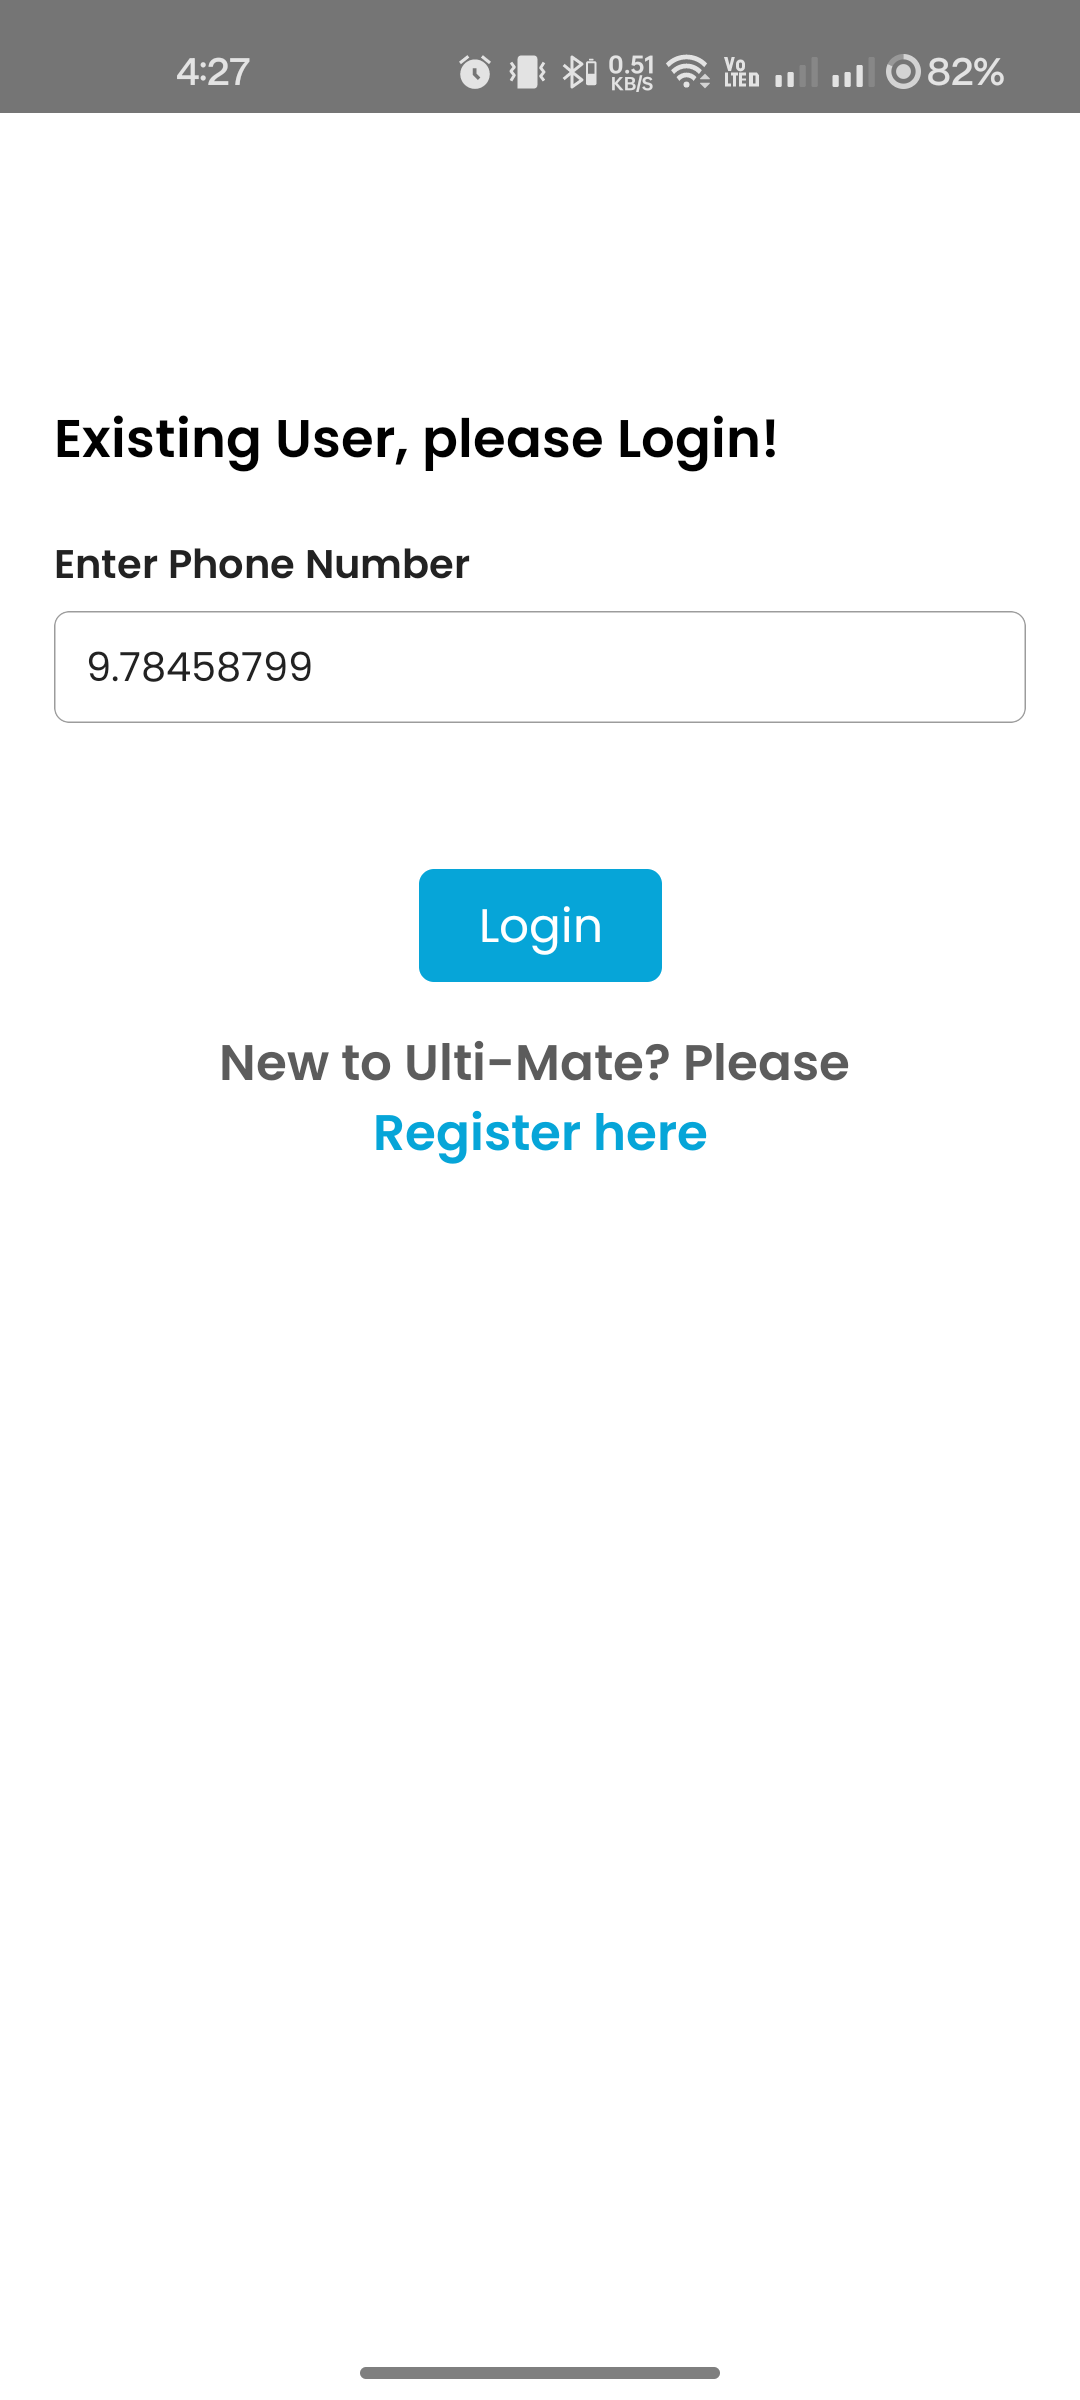
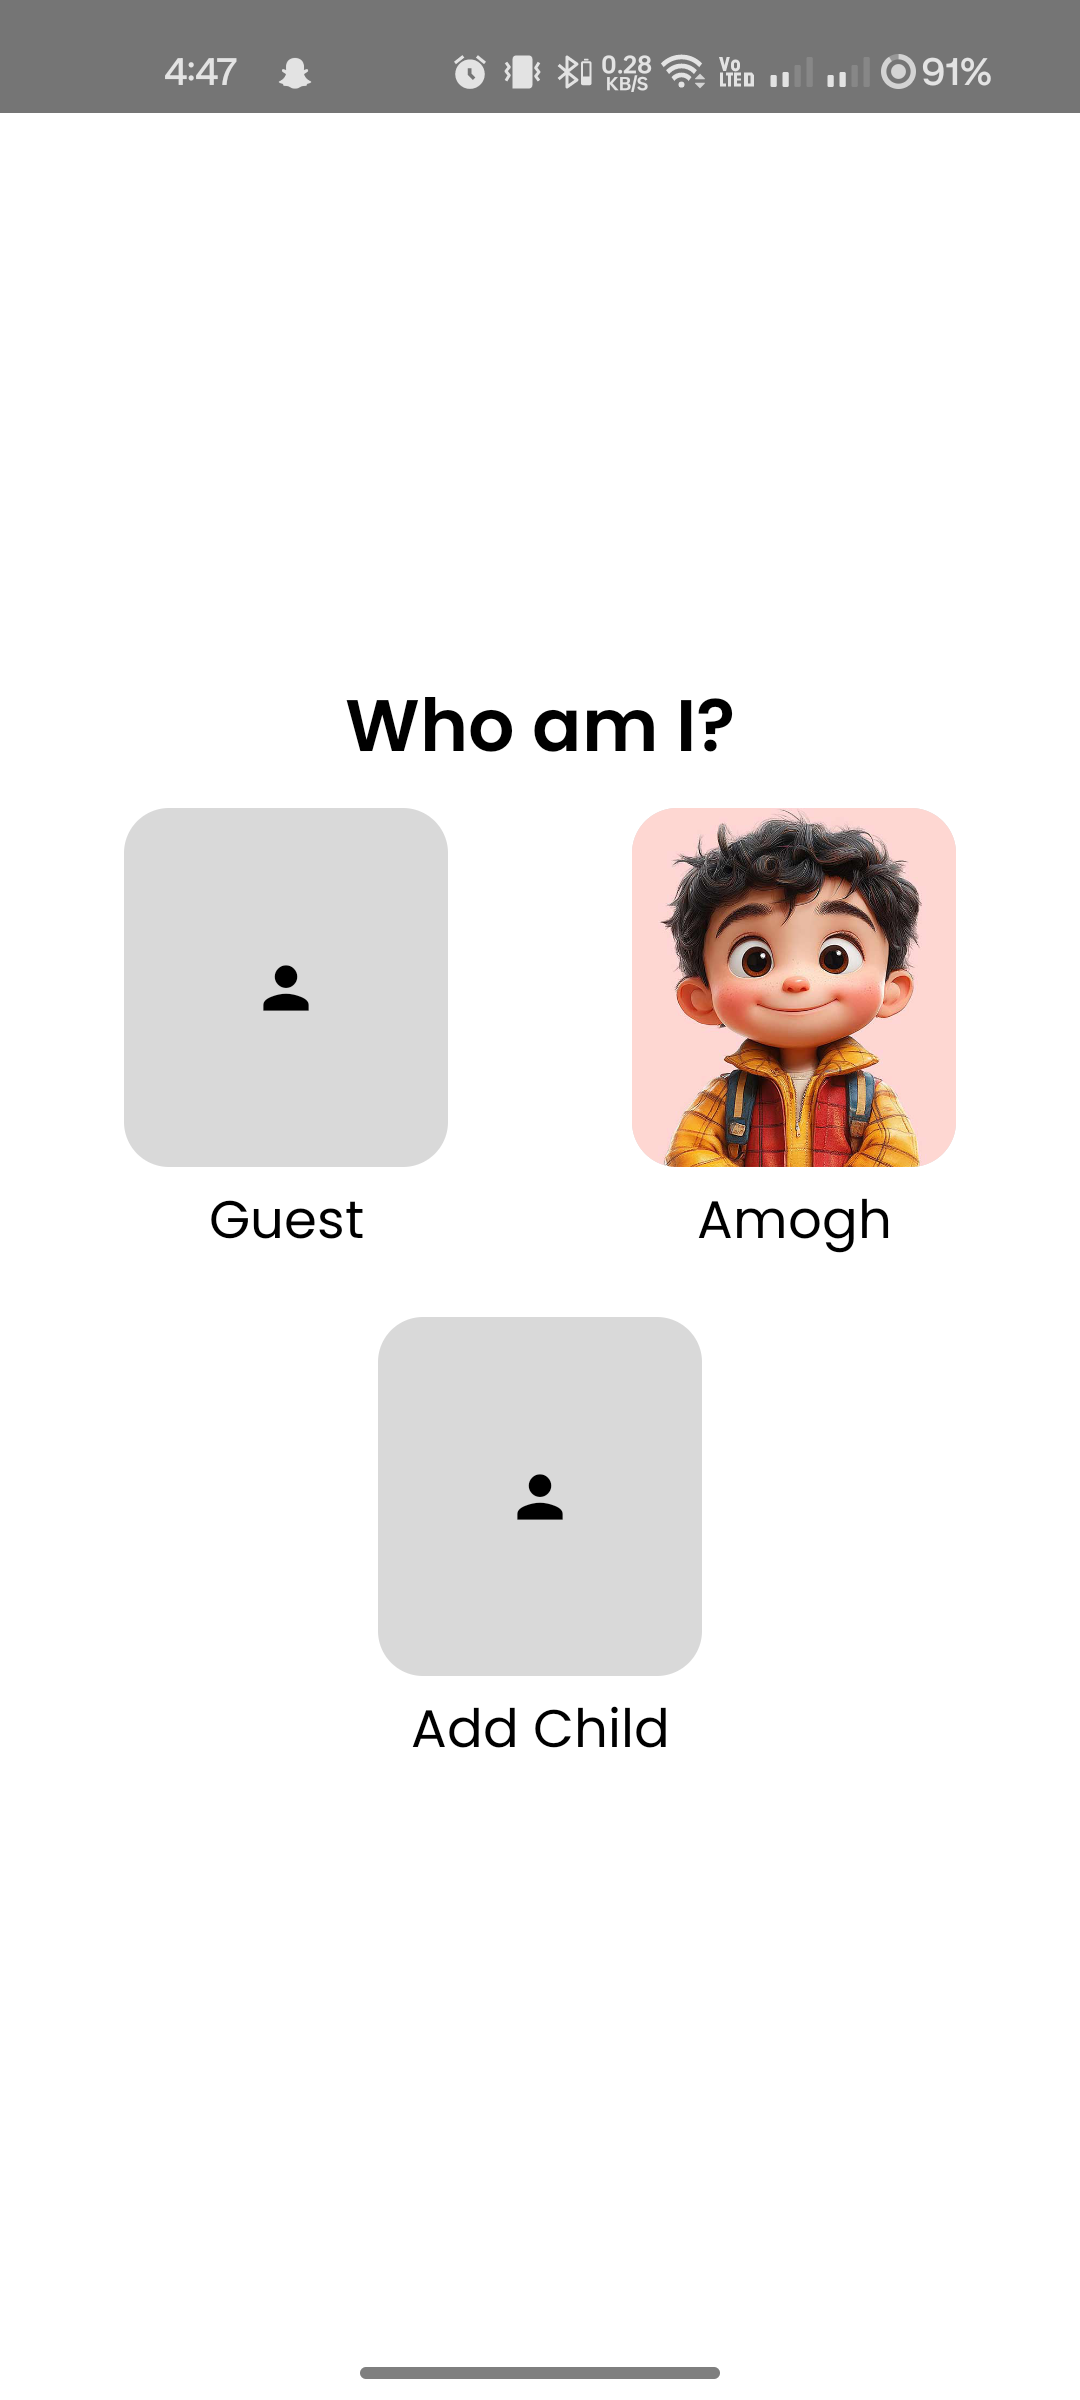
new ultimate repo commit

diff --git a/src/test/java/tests/smokeTests/LoginByParent.java b/src/test/java/tests/smokeTests/LoginByParent.java
@@ -218,16 +218,28 @@ public class LoginByParent extends BaseClass {
 //        }
 //    }
 
-    @AfterMethod
+//    @AfterMethod
+//    public void captureScreenshotOnFailure(ITestResult result) {
+//        if (ITestResult.FAILURE == result.getStatus()) {
+//            String methodName = result.getMethod().getMethodName();
+//            if (driver != null) {
+//                AppiumUtils.captureScreenshot(driver, "Failure_" + methodName);
+//            } else {
+//                log.error("Driver is null. Unable to capture screenshot for: " + methodName);
+//            }
+//        }
+//    }
+
+    @AfterMethod(alwaysRun = true)
     public void captureScreenshotOnFailure(ITestResult result) {
-        if (ITestResult.FAILURE == result.getStatus()) {
-            String methodName = result.getMethod().getMethodName();
-            if (driver != null) {
-                AppiumUtils.captureScreenshot(driver, "Failure_" + methodName);
-            } else {
-                log.error("Driver is null. Unable to capture screenshot for: " + methodName);
-            }
+        String methodName = result.getMethod().getMethodName();
+        if (driver != null) {
+            AppiumUtils.captureScreenshot(driver, result.getStatus() + "_" + methodName);
+            log.info("Screenshot captured for: " + methodName);
+        } else {
+            log.error("Driver is null. Cannot capture screenshot.");
         }
     }
+
 
 }

diff --git a/src/main/java/baseClass/BaseClass.java b/src/main/java/baseClass/BaseClass.java
@@ -118,7 +118,24 @@ public class BaseClass {
 //        }
 //    }
 
-    @AfterTest
+//    @AfterTest
+//    public void tearDown() {
+//        if (driver != null) {
+//            driver.quit();
+//            log.info("Driver closed.");
+//        } else {
+//            log.warn("Driver was null during teardown.");
+//        }
+//
+//        if (appiumService != null && appiumService.isRunning()) {
+//            appiumService.stop();
+//            log.info("Appium server stopped.");
+//        } else {
+//            log.warn("Appium server was not running during teardown.");
+//        }
+//    }
+
+    @AfterTest(alwaysRun = true)
     public void tearDown() {
         if (driver != null) {
             driver.quit();
@@ -134,5 +151,4 @@ public class BaseClass {
             log.warn("Appium server was not running during teardown.");
         }
     }
-
 }

diff --git a/src/main/java/testCasePages/ProfileSelectionPage.java b/src/main/java/testCasePages/ProfileSelectionPage.java
@@ -21,7 +21,7 @@ public class ProfileSelectionPage
         PageFactory.initElements(driver,this);
     }
 
-//    @FindBy(xpath = "//android.view.ViewGroup[@content-desc=\"Rohit\"]/android.view.ViewGroup/android.widget.ImageView")
+//   // @FindBy(xpath = "//android.view.ViewGroup[@content-desc=\"Rohit\"]/android.view.ViewGroup/android.widget.ImageView")
       @FindBy(xpath = "//android.widget.TextView[@text=\"Guest\"]")
     public WebElement parentProfile;
 
